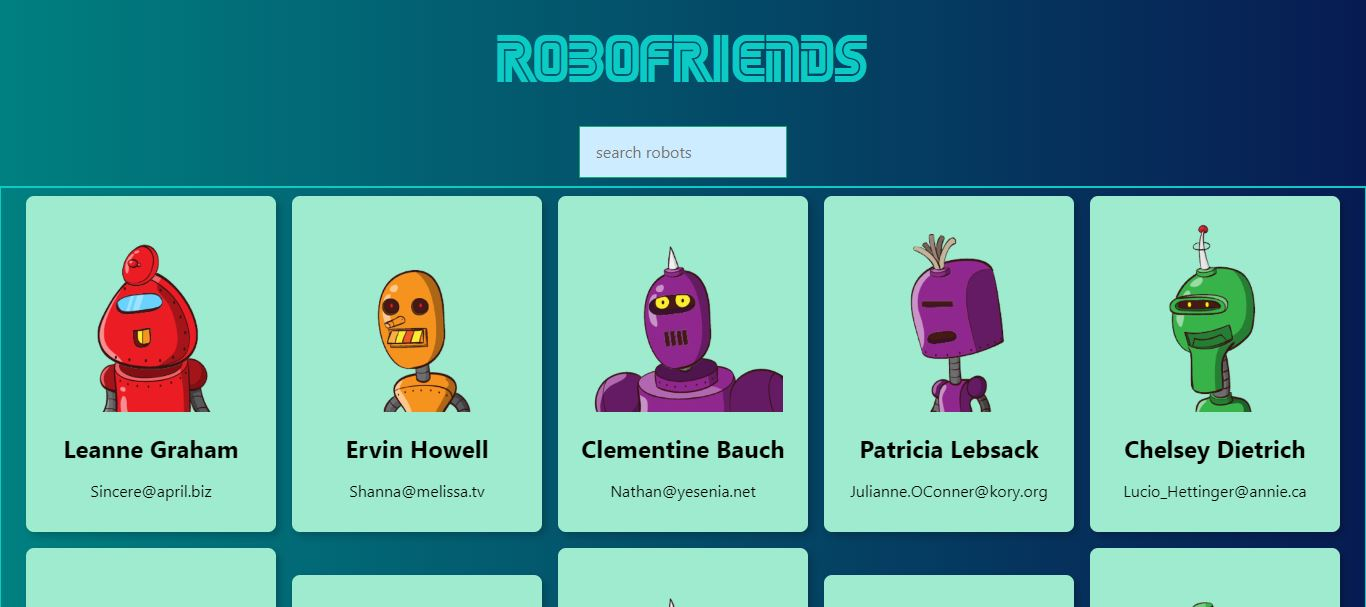
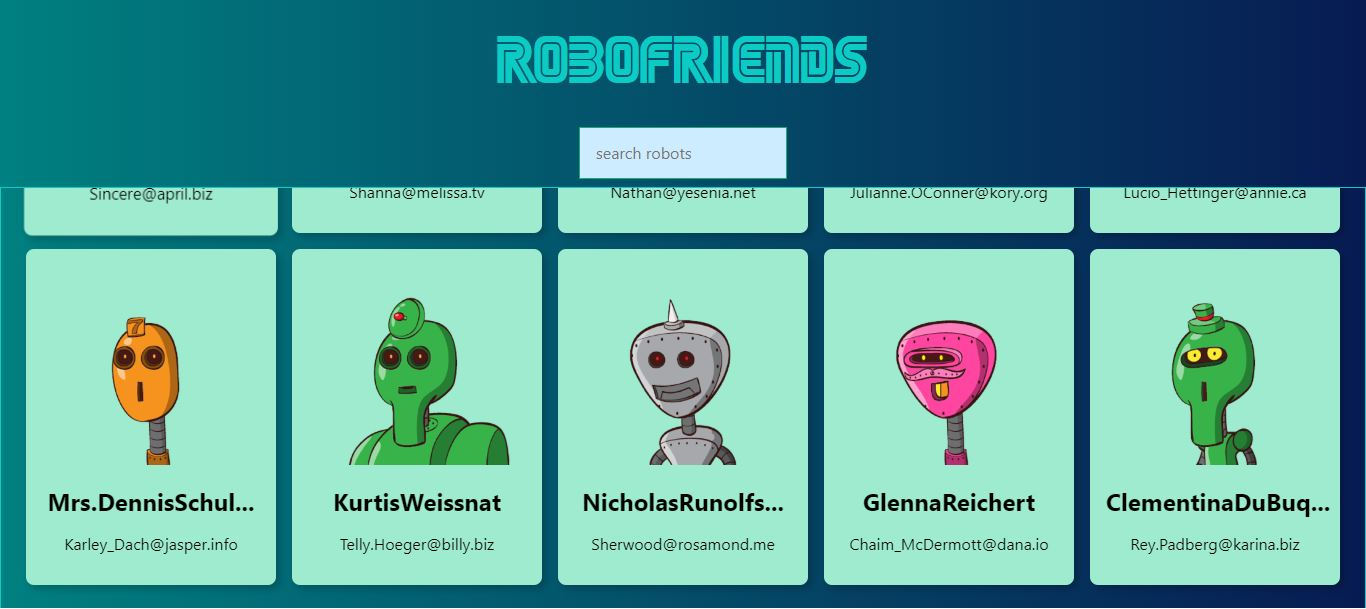
*redux*

diff --git a/src/constructors/App.js b/src/constructors/App.js
@@ -1,15 +1,30 @@
 import React, { Component } from "react";
+import { connect } from "react-redux";
 import CardList from "../components/CardList";
 import SearchBox from "../components/SearchBox";
 import Scroll from "../components/Scroll";
+import ErrorBoundry from "../components/ErrorBoundry";
 import "./App.css";
+
+import { setSearchField } from "../actions";
+
+const mapStateToProps = state => {
+  return {
+    searchField: state.searchField
+  };
+};
+
+const mapDispatchToProps = dispatch => {
+  return {
+    onSearchChange: event => dispatch(setSearchField(event.target.value))
+  };
+};
 
 class App extends Component {
   constructor() {
     super();
     this.state = {
-      robots: [],
-      searchfield: ""
+      robots: []
     };
   }
 
@@ -19,14 +34,11 @@ class App extends Component {
       .then(users => this.setState({ robots: users }));
   }
 
-  onSearchChange = event => {
-    this.setState({ searchfield: event.target.value });
-  };
-
   render() {
-    const { robots, searchfield } = this.state;
+    const { robots } = this.state;
+    const { searchField, onSearchChange } = this.props;
     const filteredRobots = this.state.robots.filter(robot => {
-      return robot.name.toLowerCase().includes(searchfield.toLowerCase());
+      return robot.name.toLowerCase().includes(searchField.toLowerCase());
     });
     return !robots.length ? (
       <h1 className="tc f1">Loading</h1>
@@ -34,15 +46,20 @@ class App extends Component {
       <div className="tc">
         <div className="header">
           <h1 className="f1">RoboFriends</h1>
-          <SearchBox className="search" searchChange={this.onSearchChange} />
+          <SearchBox className="search" searchChange={onSearchChange} />
         </div>
         <div className="spacer" />
         <Scroll>
-          <CardList className="cardList" robots={filteredRobots} />
+          <ErrorBoundry>
+            <CardList className="cardList" robots={filteredRobots} />
+          </ErrorBoundry>
         </Scroll>
       </div>
     );
   }
 }
 
-export default App;
+export default connect(
+  mapStateToProps,
+  mapDispatchToProps
+)(App);

diff --git a/src/index.js b/src/index.js
@@ -1,13 +1,17 @@
-import React from "react";
+import React from 'react';
 import ReactDOM from "react-dom";
+import { Provider } from 'react-redux';
+import { createStore } from 'redux';
 import "./index.css";
 import App from "./constructors/App";
 import * as serviceWorker from "./serviceWorker";
 import "tachyons";
+import { searchRobots } from './reducers';
 
-ReactDOM.render(<App />, document.getElementById("root"));
+const store = createStore(searchRobots);
 
-// If you want your app to work offline and load faster, you can change
-// unregister() to register() below. Note this comes with some pitfalls.
-// Learn more about service workers: https://bit.ly/CRA-PWA
+ReactDOM.render(
+    <Provider store={store}>
+        <App />
+    </Provider>, document.getElementById("root"));
 serviceWorker.unregister();

diff --git a/src/components/CardList.js b/src/components/CardList.js
@@ -1,6 +1,12 @@
 import React from "react";
 import Card from "./Card";
 
+const stringTruncate = (str, length) => {
+  const dots = str.length > length ? '...' : '';
+  return str.substring(0, length)+dots;
+}
+
+
 const CardList = ({ robots }) => {
   return (
     <div>
@@ -9,7 +15,7 @@ const CardList = ({ robots }) => {
           <Card
             key={i}
             id={robots[i].id}
-            name={robots[i].name}
+            name={stringTruncate(robots[i].name.replace(/\s/g, ""), 15)}
             email={robots[i].email}
           />
         );

diff --git a/src/components/ErrorBoundry.js b/src/components/ErrorBoundry.js
@@ -1,0 +1,22 @@
+import React, { Component } from 'react';
+
+class ErrorBoundry extends Component {
+    constructor(props) {
+        super(props);
+        this.state = {
+            hasError: false
+        }
+    }
+
+    componentDidCatch(error, info) {
+        this.setState({ hasError: true });
+    }
+
+    render() {
+        return this.state.hasError ?
+        <h1> Oops. There is a problem!</h1> :
+        this.props.children
+    }
+}
+
+export default ErrorBoundry

diff --git a/src/components/Card.js b/src/components/Card.js
@@ -6,8 +6,8 @@ const Card = ({name, email, id}) => {
         <div className='card tc bg-light-green br3 pa3 ma2 grow bw2 shadow-5'>
             <img className='robot' alt='robots' src={`https://robohash.org/${id}`} />
             <div>
-                <h2>{name}</h2>
-                <p>{email}</p>
+                <h2 className="name">{name}</h2>
+                <p className="email">{email}</p>
             </div>
         </div>
     );

diff --git a/src/reducers.js b/src/reducers.js
@@ -1,0 +1,14 @@
+import { CHANGE_SEARCH_FIELD } from './constants.js';
+
+const intialState = {
+    searchField: ''
+}
+
+export const searchRobots = (state=intialState, action={}) => {
+    switch(action.type) {
+        case CHANGE_SEARCH_FIELD:
+            return Object.assign({}, state, { searchField: action.payload })
+        default: 
+            return state;
+    }
+}

diff --git a/src/actions.js b/src/actions.js
@@ -1,0 +1,6 @@
+import { CHANGE_SEARCH_FIELD } from './constants.js';
+
+export const setSearchField = (text) => ({
+    type: CHANGE_SEARCH_FIELD,
+    payload: text
+})

diff --git a/src/constants.js b/src/constants.js
@@ -1,0 +1,1 @@
+export const CHANGE_SEARCH_FIELD = 'CHANGE_SEARCH_FIELD'

diff --git a/src/components/Card.css b/src/components/Card.css
@@ -7,3 +7,4 @@
     height: 200px;
     width: 200px;
 }
+
